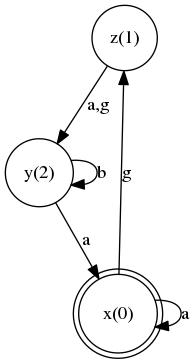
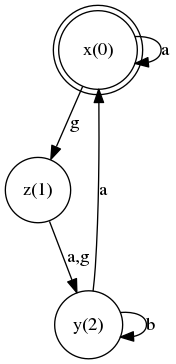
observer_implementation

diff --git a/aux_functions.py b/aux_functions.py
@@ -74,6 +74,24 @@ def generate_incmatrix_from_automate(G_prod, P1, P2):
 
     return [new_m, n, marked]
 
+def generate_incmatrix_for_obs_automate(Obs):
+    n = [i for i in Obs.nodes()]
+    n.sort()
+    
+
+    inc_m = nx.adjacency_matrix(Obs,n).todense().tolist()
+    print(inc_m)
+    events_ref = nx.get_edge_attributes(Obs, 'label')
+
+    for i in [n for n in events_ref.keys()]:        
+        inc_m[n.index(i[0])][n.index(i[1])] = events_ref[i]
+    
+    new_m = []
+    for i in range(len(inc_m)):
+        new_m.append(['0' if x==0 else x for x in inc_m[i]])
+    return [new_m, n]
+
+
 def get_sigma(automate):        
         events = nx.get_edge_attributes(automate, 'label')
 
@@ -188,3 +206,54 @@ def iterat_parallel(G_parallel, G1, G2, sigma_sync, actual_node):
         G_parallel =  iterat_parallel(G_parallel.copy(), G1, G2, sigma_sync, next_node)
     
     return G_parallel
+
+def iterat_observer(Obs, G, sigma_uo, mapping, actual_nodes):
+    ev_possible = []    
+    for i in actual_nodes:
+        [ev_possible.append(x) for x in f.get_adjacencies_events(G, i)]
+        
+    if len(ev_possible) == 0:
+        return Obs
+
+    state = actual_nodes[:]
+    ev_obs_possible = []
+    for node in state:
+        ev_possible = f.get_adjacencies_events(G, node)
+    
+        for ev in ev_possible:
+            if (ev in sigma_uo):
+                if not mapping[node][ev] in state:
+                    state.append(mapping[node][ev])                
+            else:
+                if not ev in ev_obs_possible:
+                    ev_obs_possible.append(ev)
+    
+    Obs = f.compute_next_obs(Obs, ev_obs_possible, G, sigma_uo, mapping, state)
+    return Obs    
+    
+def compute_next_obs(Obs, ev_obs_possible, G, sigma_uo, mapping, state):
+            
+    for ev in ev_obs_possible:
+        actual_nodes = []
+        for node in state:
+            try:
+                actual_nodes.append(mapping[node][ev])
+            except Exception:
+                pass
+        if actual_nodes == []:
+            continue
+        
+        if not (str(state),str(actual_nodes)) in list(Obs.edges()):
+            Obs.add_edge(str(state), str(actual_nodes), label= ev)
+        else:
+            label = nx.get_edge_attributes(Obs, 'label')[(str(state),str(actual_nodes))]
+            if ev == label:
+                continue
+            Obs.remove_edge(str(state), str(actual_nodes))
+            Obs.add_edge(str(state), str(actual_nodes), label = label+','+ev)
+        if state == actual_nodes:
+            continue
+        Obs = f.iterat_observer(Obs,G,sigma_uo,mapping, actual_nodes)
+    
+    return Obs
+

diff --git a/des.py b/des.py
@@ -33,12 +33,12 @@ class des:
         return self.states
     def get_marked(self):
         return self.marked
-    def generate_figure(self, G,sufix='', label='',layout='dot'):                
+    def generate_figure(self, G,sufix='', label='',layout='dot', shape='circle'):                
         A = to_agraph(G)
         if label == '':
             label = self.label
 
-        A.node_attr['shape']='circle'
+        A.node_attr['shape']= shape
         for mark in self.marked:
             m = A.get_node(mark)
             m.attr['shape'] = 'doublecircle'
@@ -370,9 +370,44 @@ class des:
 
         settings= f.generate_incmatrix_from_automate(G_parallel, D1,D2)
         P = des(settings[0], settings[1], \
-             D1.get_label() + '//' + D2.get_label(), settings[2])
+             D1.get_label() + '||' + D2.get_label(), settings[2])
 
         return P
+    
+    def Observer(self, sigma_o):        
+        noAc = self.get_accessible_part(draw = False, rev = True)
+        
+        G = self.get_automate()        
+        G.remove_nodes_from(noAc)        
+
+        sigma = f.get_sigma(G)
+        sigma_uo = []
+        for ev in sigma:
+            if not (ev in sigma_o):
+                sigma_uo.append(ev)
+
+        Obs = nx.DiGraph()
+        mapping = nx.get_edge_attributes(G, 'label')
+        inv_map = {v: k for k, v in mapping.items()}
+        
+        states = self.states
+        actual_node = [states[0]]
+
+        mapping = {}
+        for node in states:
+            mapping[node] = f.get_adjacencies(G, node)
+
+        Obs = f.iterat_observer(Obs.copy(),G, sigma_uo, mapping, actual_node)
+
+        settings= f.generate_incmatrix_for_obs_automate(Obs)
+
+        P = des(settings[0], settings[1], \
+             'Obs(' + self.label +')', [])
+        P.generate_figure(P.get_automate(), label='Obs(' + self.label +')',shape='box')
+
+        return P
+    
+
         
     
     

diff --git a/main.py b/main.py
@@ -2,7 +2,8 @@ import aux_functions as f
 
 
 aut_list = f.load_input()
-G = aut_list[3]
+Gd = aut_list[0]
+Gd.Observer(['a','b','c'])
 # G.get_accessible_part()
 # G.get_coaccessible_part()
 # G.strongly_connected()
@@ -11,10 +12,5 @@ G = aut_list[3]
 F1 = aut_list[0]
 F2 = aut_list[1]
 P = F1//F2
-
-
-
-
-
 
 print("testing changes for using git repository...")    
